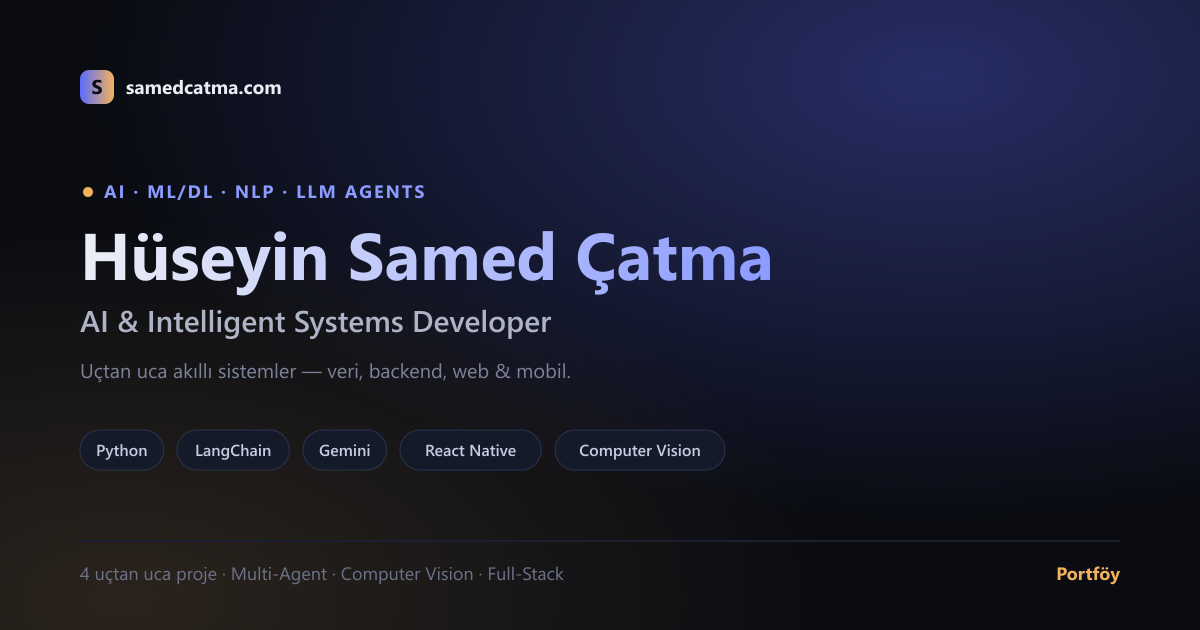
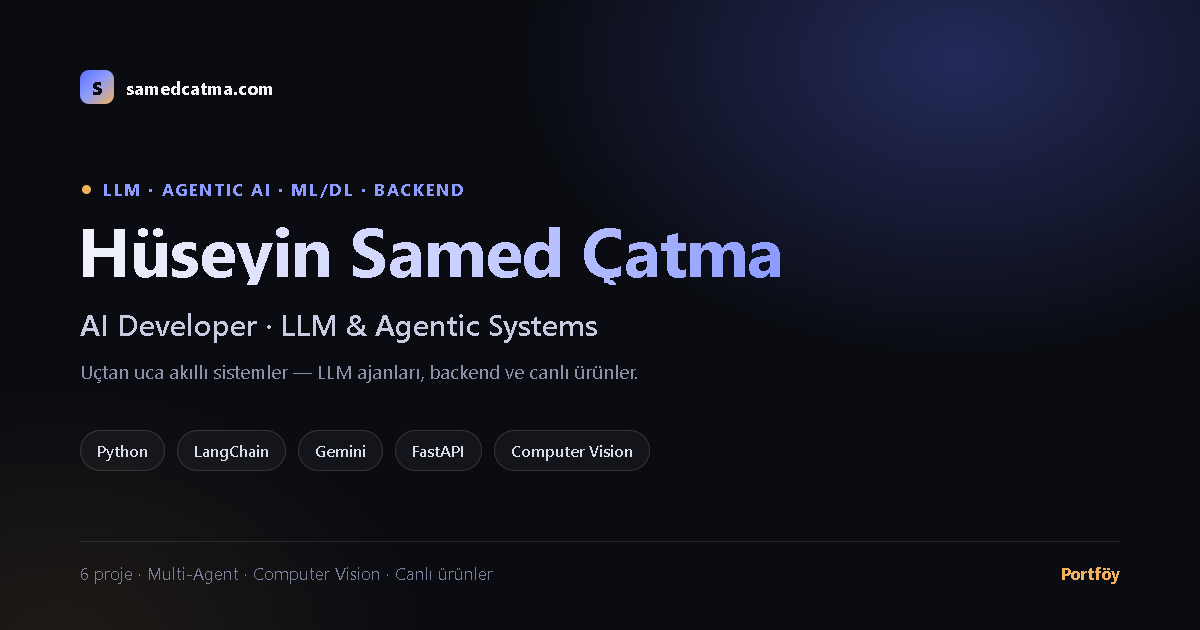
Kimlik: "AI Developer - LLM & Agentic Systems", RAG temizligi, yeni yetenekler
Kariyer yol haritasi (AI ana kimlik, backend ikinci ayak, yalniz kanitli
iddia) siteye yansitildi.

- Baslik Hero, <title>, og/twitter ve Iletisim kartinda ayni: "AI
  Developer - LLM & Agentic Systems". "Engineer" yok: henuz mezun
  olunmadi (3458 sayili Kanun md. 1). Hero ust satiri LLM / Agentic AI /
  ML-DL / Backend; rozet "Musait" -> "Firsatlara acik".
- og.png ayni tasarimla yeni metinlerle yeniden cizildi; meta adresi
  ?v=2 (sosyal aglarin eski gorseli onbellekten gostermemesi icin).
- RAG iddialari kaldirildi (Hakkimda karti + paragraf, Yetenekler
  etiketi): sitede gercek RAG projesi yok; Tavily web aramasi RAG degil.
- Yetenekler: yeni "Yayin & Altyapi" grubu (GitHub Actions, CI/CD,
  Vercel, Railway, Expo EAS, Sentry; hepsi depolarda dogrulandi) ve
  "Veritabani Gocleri". Docker hicbir projede yok, eklenmedi.

diff --git a/index.html b/index.html
@@ -6,7 +6,7 @@
     <meta name="viewport" content="width=device-width, initial-scale=1.0" />
     <meta name="theme-color" content="#0A0C12" />
 
-    <title>Hüseyin Samed Çatma — AI & Intelligent Systems Developer</title>
+    <title>Hüseyin Samed Çatma — AI Developer · LLM & Agentic Systems</title>
     <meta
       name="description"
       content="Makine öğrenmesi, NLP, görüntü işleme ve LLM tabanlı ajan sistemleri geliştiren bilgisayar mühendisliği öğrencisi. Python, FastAPI, LangChain, Gemini ve React Native ile uçtan uca akıllı sistemler."
@@ -17,24 +17,24 @@
     <meta property="og:locale" content="tr_TR" />
     <meta property="og:url" content="https://samedcatma.com" />
     <meta property="og:site_name" content="Hüseyin Samed Çatma" />
-    <meta property="og:title" content="Hüseyin Samed Çatma — AI & Intelligent Systems Developer" />
+    <meta property="og:title" content="Hüseyin Samed Çatma — AI Developer · LLM & Agentic Systems" />
     <meta
       property="og:description"
       content="Makine öğrenmesi, NLP, görüntü işleme ve LLM tabanlı ajan sistemleri geliştiren bilgisayar mühendisliği öğrencisi."
     />
-    <meta property="og:image" content="https://samedcatma.com/og.png" />
+    <meta property="og:image" content="https://samedcatma.com/og.png?v=2" />
     <meta property="og:image:width" content="1200" />
     <meta property="og:image:height" content="630" />
-    <meta property="og:image:alt" content="Hüseyin Samed Çatma — AI & Intelligent Systems Developer" />
+    <meta property="og:image:alt" content="Hüseyin Samed Çatma — AI Developer · LLM & Agentic Systems" />
 
     <!-- Twitter/X kartı -->
     <meta name="twitter:card" content="summary_large_image" />
-    <meta name="twitter:title" content="Hüseyin Samed Çatma — AI & Intelligent Systems Developer" />
+    <meta name="twitter:title" content="Hüseyin Samed Çatma — AI Developer · LLM & Agentic Systems" />
     <meta
       name="twitter:description"
       content="Makine öğrenmesi, NLP, görüntü işleme ve LLM tabanlı ajan sistemleri geliştiren bilgisayar mühendisliği öğrencisi."
     />
-    <meta name="twitter:image" content="https://samedcatma.com/og.png" />
+    <meta name="twitter:image" content="https://samedcatma.com/og.png?v=2" />
   </head>
   <body>
     <div id="root"></div>

diff --git a/src/components/Skills.jsx b/src/components/Skills.jsx
@@ -1,9 +1,10 @@
-import { FiShare2, FiServer, FiCpu, FiDatabase, FiCode, FiTool } from 'react-icons/fi'
+import { FiShare2, FiServer, FiCpu, FiDatabase, FiCode, FiTool, FiCloud } from 'react-icons/fi'
 import {
   SiLangchain, SiGooglegemini, SiFastapi, SiFlask, SiNodedotjs, SiExpress, SiSqlalchemy,
   SiOpencv, SiScikitlearn, SiPandas, SiPostgresql, SiSupabase, SiSqlite, SiMysql,
   SiPython, SiTypescript, SiJavascript, SiC, SiReact, SiExpo, SiVite,
   SiGit, SiPostman, SiPycharm, SiWebstorm, SiGooglecolab, SiJsonwebtokens,
+  SiGithubactions, SiVercel, SiRailway, SiSentry,
 } from 'react-icons/si'
 import Reveal from './Reveal'
 import GradientText from './GradientText'
@@ -40,6 +41,11 @@ const BRAND = {
   'PyCharm': [SiPycharm, '#34D399'],
   'WebStorm': [SiWebstorm, '#38BDF8'],
   'Google Colab': [SiGooglecolab, '#F9AB00'],
+  'GitHub Actions': [SiGithubactions, '#4F9CF9'],
+  'Vercel': [SiVercel, '#E8EAF0'],
+  'Railway': [SiRailway, '#C9D1E0'],
+  'Expo EAS': [SiExpo, '#E8EAF0'],
+  'Sentry': [SiSentry, '#B4A7F5'],
 }
 
 const groups = [
@@ -53,7 +59,7 @@ const groups = [
     key: 'agent',
     label: 'LLM & Agent Sistemleri',
     Icon: FiShare2,
-    items: ['LangChain', 'Google Gemini', 'Multi-Agent Architecture', 'Orchestrator Pattern', 'Tool Calling', 'Agent-to-Agent Communication', 'RAG', 'SSE Streaming'],
+    items: ['LangChain', 'Google Gemini', 'Multi-Agent Architecture', 'Orchestrator Pattern', 'Tool Calling', 'Agent-to-Agent Communication', 'SSE Streaming'],
   },
   {
     key: 'backend',
@@ -65,7 +71,13 @@ const groups = [
     key: 'db',
     label: 'Veritabanı',
     Icon: FiDatabase,
-    items: ['PostgreSQL', 'Supabase', 'SQLite', 'MySQL', 'Full-Text Search', 'Row Level Security'],
+    items: ['PostgreSQL', 'Supabase', 'SQLite', 'MySQL', 'Full-Text Search', 'Row Level Security', 'Veritabanı Göçleri'],
+  },
+  {
+    key: 'deploy',
+    label: 'Yayın & Altyapı',
+    Icon: FiCloud,
+    items: ['GitHub Actions', 'CI/CD', 'Vercel', 'Railway', 'Expo EAS', 'Sentry'],
   },
   {
     key: 'lang',

diff --git a/src/components/About.jsx b/src/components/About.jsx
@@ -6,7 +6,7 @@ import './About.css'
 
 const principles = [
   { Icon: FiShield, glow: '91, 108, 255', title: 'Yapay Zeka Odaklı Geliştirme', description: 'ML, deep learning, NLP ve computer vision alanlarında model ve uygulama odaklı çalışmalar yapıyorum.' },
-  { Icon: FiGitBranch, glow: '91, 214, 176', title: 'LLM & Agent Sistemleri', description: 'RAG, tool calling ve orchestrator pattern ile LLM tabanlı akıllı iş akışları geliştiriyorum.' },
+  { Icon: FiGitBranch, glow: '91, 214, 176', title: 'LLM & Agent Sistemleri', description: 'Tool calling, orchestrator pattern ve ajanlar arası iletişimle LLM tabanlı çok adımlı iş akışları geliştiriyorum.' },
   { Icon: FiLayers, glow: '242, 178, 92', title: 'AI Destekli Mobil Ürünler', description: "React Native ve Expo ile yapay zeka destekli mobil uygulamalar geliştiriyorum — Gündem AI App Store'da yayında." },
   { Icon: FiTarget, glow: '139, 155, 255', title: 'Uçtan Uca Sistem Kurma', description: 'Backend, API, veritabanı, web/mobil arayüz ve yapay zeka katmanlarını entegre ederek çalışan ürünler geliştiriyorum.' },
 ]
@@ -35,8 +35,8 @@ function About() {
         </Reveal>
 
         <Reveal as="p" className="about__sub about__sub--second" delay={0.2}>
-          Özellikle talep tahmini, karar destek sistemleri, RAG tabanlı uygulamalar, çok
-          ajanlı mimariler, AI destekli mobil uygulamalar ve akıllı otomasyon çözümleri
+          Özellikle talep tahmini, karar destek sistemleri, çok ajanlı mimariler, AI destekli
+          mobil uygulamalar ve akıllı otomasyon çözümleri
           geliştiriyorum. Amacım, yapay zekâyı yalnızca model seviyesinde bırakmadan; veri,
           backend, web/mobil arayüz ve otomasyon katmanlarıyla birlikte uçtan uca çalışan
           ürünlere dönüştürmek.

diff --git a/src/components/Hero.jsx b/src/components/Hero.jsx
@@ -32,14 +32,14 @@ function Hero() {
       <div className="hero__grid">
         <div className="hero__copy">
           <p className="hero__eyebrow">
-            <span className="hero__pulse" /> AI · ML/DL · NLP · LLM AGENTS
+            <span className="hero__pulse" /> LLM · AGENTIC AI · ML/DL · BACKEND
           </p>
           <h1 className="hero__name">
             <ShinyText text={NAME} speed={4} spread={80} color="#ECEEF6" shineColor="#7C8CFF" />
           </h1>
           <p className="hero__role">
             <DecryptedText
-              text="AI & Intelligent Systems Developer"
+              text="AI Developer · LLM & Agentic Systems"
               animateOn="view"
               sequential
               revealDirection="start"
@@ -78,7 +78,7 @@ function Hero() {
 
           <div className="hero__meta">
             <span className="hero__available">
-              <span className="hero__available-dot" /> Müsait
+              <span className="hero__available-dot" /> Fırsatlara açık
             </span>
             <div className="hero__socials">
               <a href="https://github.com/hsynsmd" target="_blank" rel="noopener noreferrer" aria-label="GitHub"

diff --git a/src/components/Contact.jsx b/src/components/Contact.jsx
@@ -96,7 +96,7 @@ function Contact() {
               avatarUrl={portraitImg}
               miniAvatarUrl={portraitImg}
               name="Hüseyin Samed Çatma"
-              title="AI & Intelligent Systems Developer"
+              title="AI Developer · LLM & Agentic Systems"
               showUserInfo={false}
               behindGlowColor="rgba(91, 108, 255, 0.35)"
               innerGradient="linear-gradient(145deg, rgba(91,108,255,0.18) 0%, rgba(242,178,92,0.16) 100%)"
